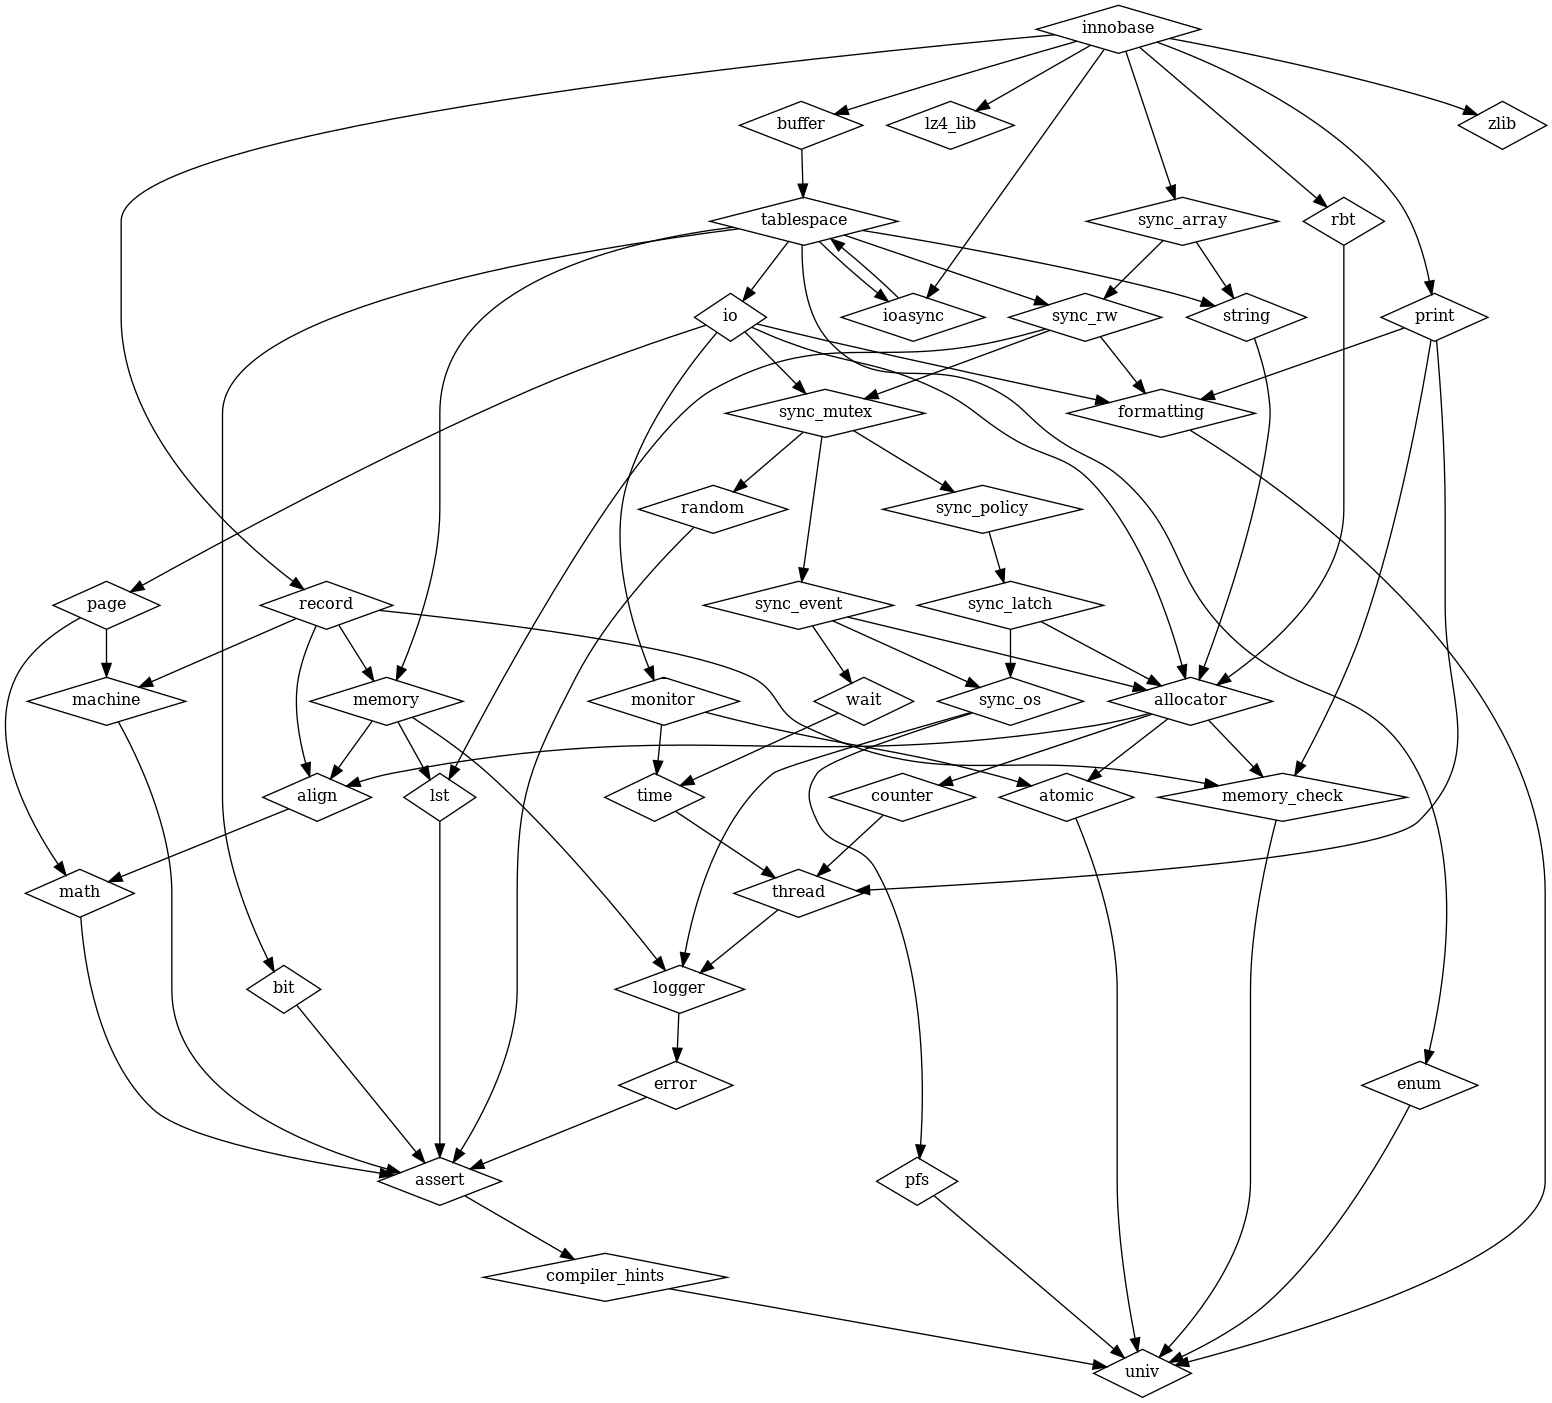
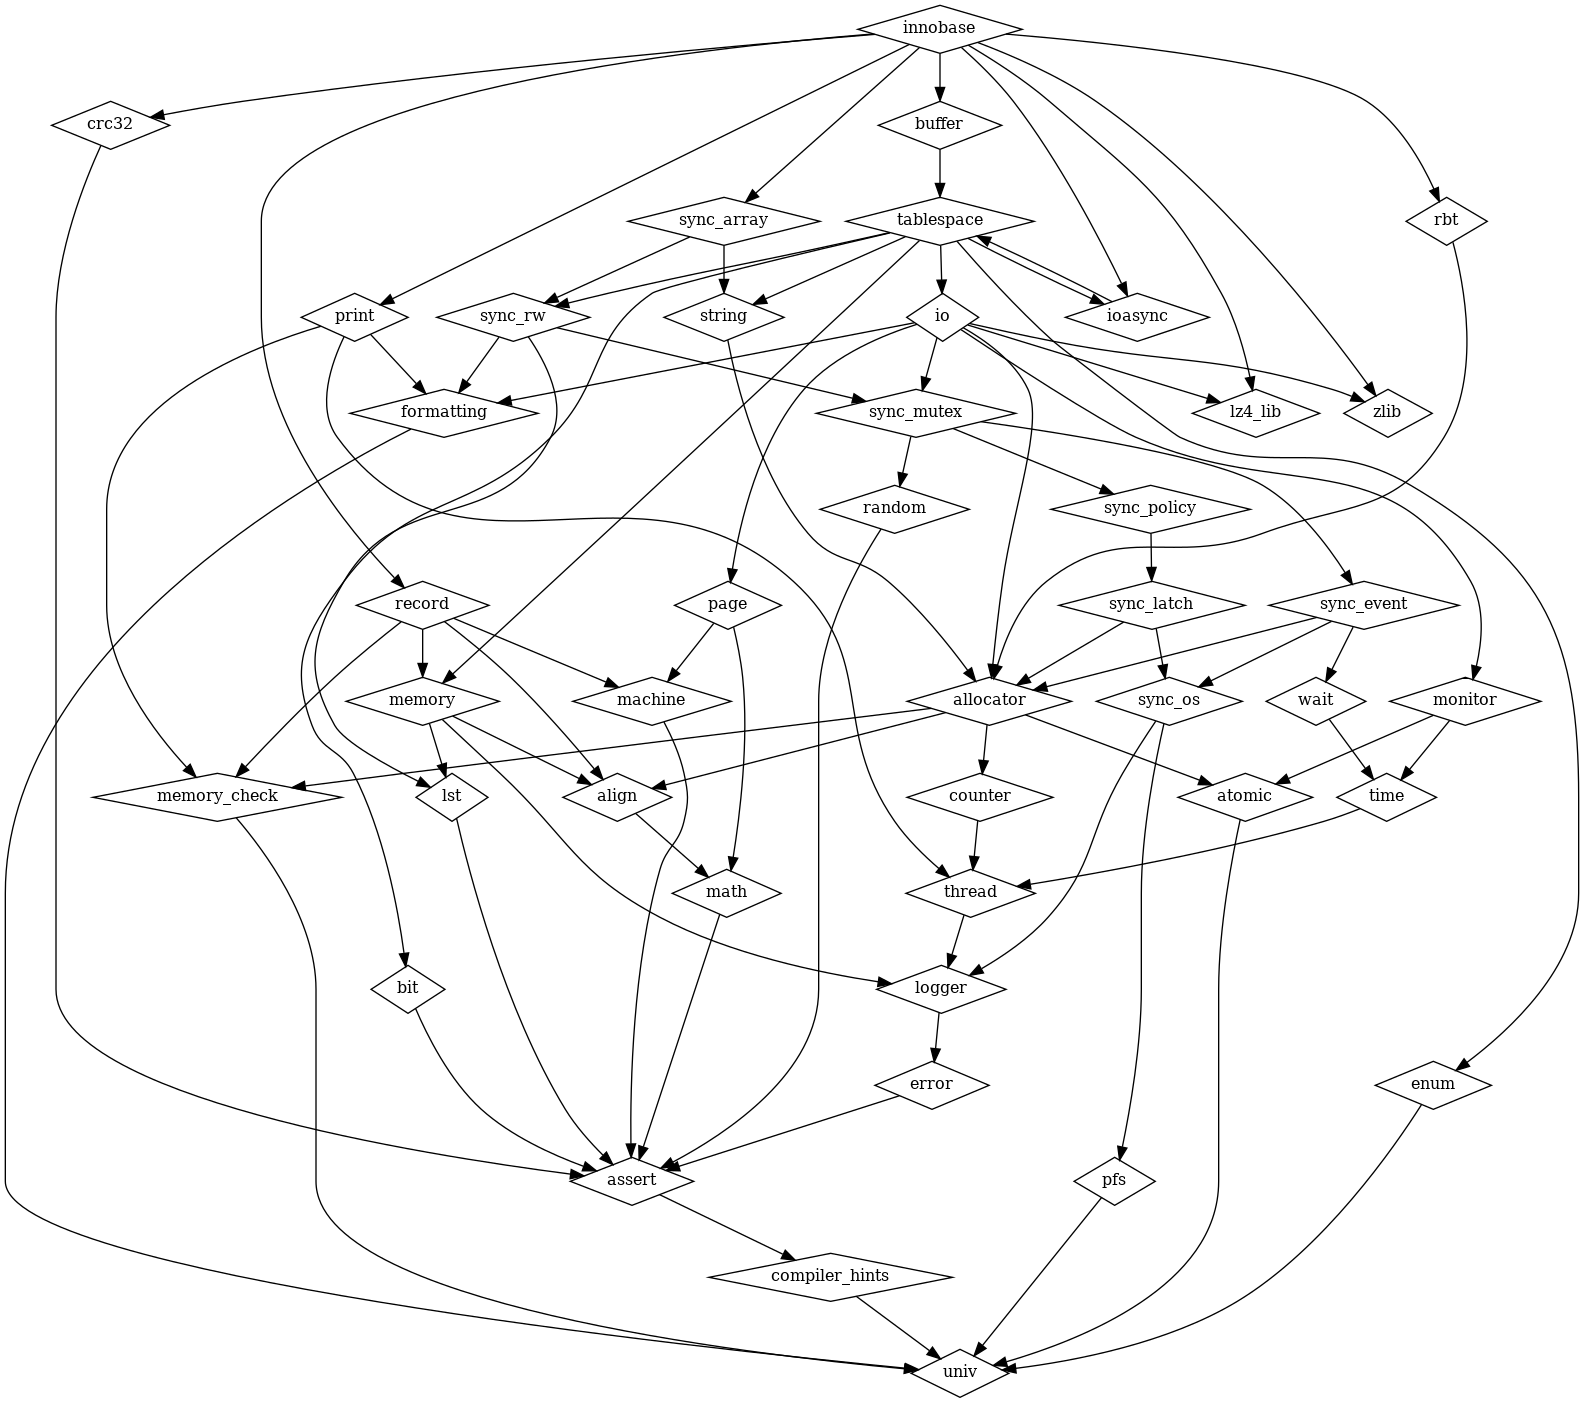
Create crc32 library

diff --git a/utilities/innochecksum.cc b/utilities/innochecksum.cc
@@ -73,7 +73,7 @@ The parts not included are excluded by #ifndef UNIV_INNOCHECKSUM. */
 #include <innodb/page/page_size_t.h> /* page_size_t */
 #include "storage/innobase/include/page0zip.h"
 #include "storage/innobase/include/trx0undo.h" /* TRX_UNDO_* */
-#include "storage/innobase/include/ut0crc32.h" /* ut_crc32_init() */
+#include "storage/innobase/libs/crc32/include/innodb/crc32/crc32.h" /* ut_crc32_init() */
 
 
 dberr_t os_file_decompress_page(bool dblwr_recover, byte *src, byte *dst,

diff --git a/storage/innobase/buf/checksum.cc b/storage/innobase/buf/checksum.cc
@@ -44,7 +44,7 @@ this program; if not, write to the Free Software Foundation, Inc.,
 #include <innodb/page/page_size_t.h>
 #include "srv0srv.h"
 #include <innodb/univ/univ.h>
-#include "ut0crc32.h"
+#include <innodb/crc32/crc32.h>
 #include <innodb/random/random.h>
 #ifdef UNIV_HOTBACKUP
 #include "buf0checksum.h"

diff --git a/storage/innobase/include/page0zip.h b/storage/innobase/include/page0zip.h
@@ -54,7 +54,7 @@ this program; if not, write to the Free Software Foundation, Inc.,
 #include "page/zipdecompress.h"
 #include "srv0srv.h"
 #include "trx0types.h"
-#include "ut0crc32.h"
+#include <innodb/crc32/crc32.h>
 
 /* Compression level to be used by zlib. Settable by user. */
 extern uint page_zip_level;

diff --git a/storage/innobase/libs/crc32/src/crc32.cpp b/storage/innobase/libs/crc32/src/crc32.cpp
@@ -125,7 +125,7 @@ ALWAYS_INLINE uint64_t _mm_crc32_u64(uint64_t __C, uint64_t __V) {
 #endif  // defined(gnuc64) || defined(_WIN32)
 
 #include <innodb/univ/univ.h>
-#include "ut0crc32.h"
+#include <innodb/crc32/crc32.h>
 
 /** Pointer to CRC32 calculation function. */
 ut_crc32_func_t ut_crc32;

diff --git a/storage/innobase/dict/dict0dd.cc b/storage/innobase/dict/dict0dd.cc
@@ -59,7 +59,7 @@ Data dictionary interface */
 #include "gis/rtree_support.h"  // fetch_srs
 #endif                          /* !UNIV_HOTBACKUP */
 #include "srv0start.h"
-#include "ut0crc32.h"
+#include <innodb/crc32/crc32.h>
 #ifndef UNIV_HOTBACKUP
 #include "btr0sea.h"
 #include "derror.h"

diff --git a/storage/innobase/dict/dict0mem.cc b/storage/innobase/dict/dict0mem.cc
@@ -46,7 +46,7 @@ this program; if not, write to the Free Software Foundation, Inc.,
 #include <innodb/machine/data.h>
 #include "my_dbug.h"
 #include "rem0rec.h"
-#include "ut0crc32.h"
+#include <innodb/crc32/crc32.h>
 #endif /* !UNIV_HOTBACKUP */
 
 #include <iostream>

diff --git a/utilities/ibd2sdi.cc b/utilities/ibd2sdi.cc
@@ -78,7 +78,7 @@ this program; if not, write to the Free Software Foundation, Inc.,
 #include <innodb/page/page_size_t.h>
 #include <innodb/univ/univ.h>
 
-#include "ut0crc32.h"
+#include <innodb/crc32/crc32.h>
 
 typedef enum { SUCCESS, FALIURE, NO_RECORDS } err_t;
 

diff --git a/storage/innobase/srv/srv0srv.cc b/storage/innobase/srv/srv0srv.cc
@@ -116,7 +116,7 @@ this program; if not, write to the Free Software Foundation, Inc.,
 #include "trx0i_s.h"
 #include "trx0purge.h"
 #include "usr0sess.h"
-#include "ut0crc32.h"
+#include <innodb/crc32/crc32.h>
 #endif /* !UNIV_HOTBACKUP */
 #include "ut0ut.h"
 

diff --git a/storage/innobase/page/page0zip.cc b/storage/innobase/page/page0zip.cc
@@ -62,7 +62,7 @@ const byte field_ref_zero[FIELD_REF_SIZE] = {
 #include "srv0mon.h"
 #include "srv0srv.h"
 #endif /* !UNIV_HOTBACKUP */
-#include "ut0crc32.h"
+#include <innodb/crc32/crc32.h>
 #ifdef UNIV_HOTBACKUP
 #include "buf0checksum.h"
 

diff --git a/storage/innobase/srv/srv0start.cc b/storage/innobase/srv/srv0start.cc
@@ -143,7 +143,7 @@ this program; if not, write to the Free Software Foundation, Inc.,
 #include "trx0roll.h"
 #include "trx0rseg.h"
 #include "usr0sess.h"
-#include "ut0crc32.h"
+#include <innodb/crc32/crc32.h>
 #include "sql/log.h"
 
 

diff --git a/storage/innobase/libs/crc32/tests/main.cpp b/storage/innobase/libs/crc32/tests/main.cpp
@@ -1,0 +1,9 @@
+#include <gtest/gtest.h>
+
+int main( int argc, char **argv ) 
+{
+    ::testing::InitGoogleTest(&argc, argv);
+    return RUN_ALL_TESTS();
+}
+
+

diff --git a/storage/innobase/libs/crc32/tests/base.cpp b/storage/innobase/libs/crc32/tests/base.cpp
@@ -1,0 +1,12 @@
+#include <gtest/gtest.h>
+#include <innodb/crc32/crc32.h>
+
+
+//
+//
+TEST( crc32, constructor )
+{
+
+}
+
+
